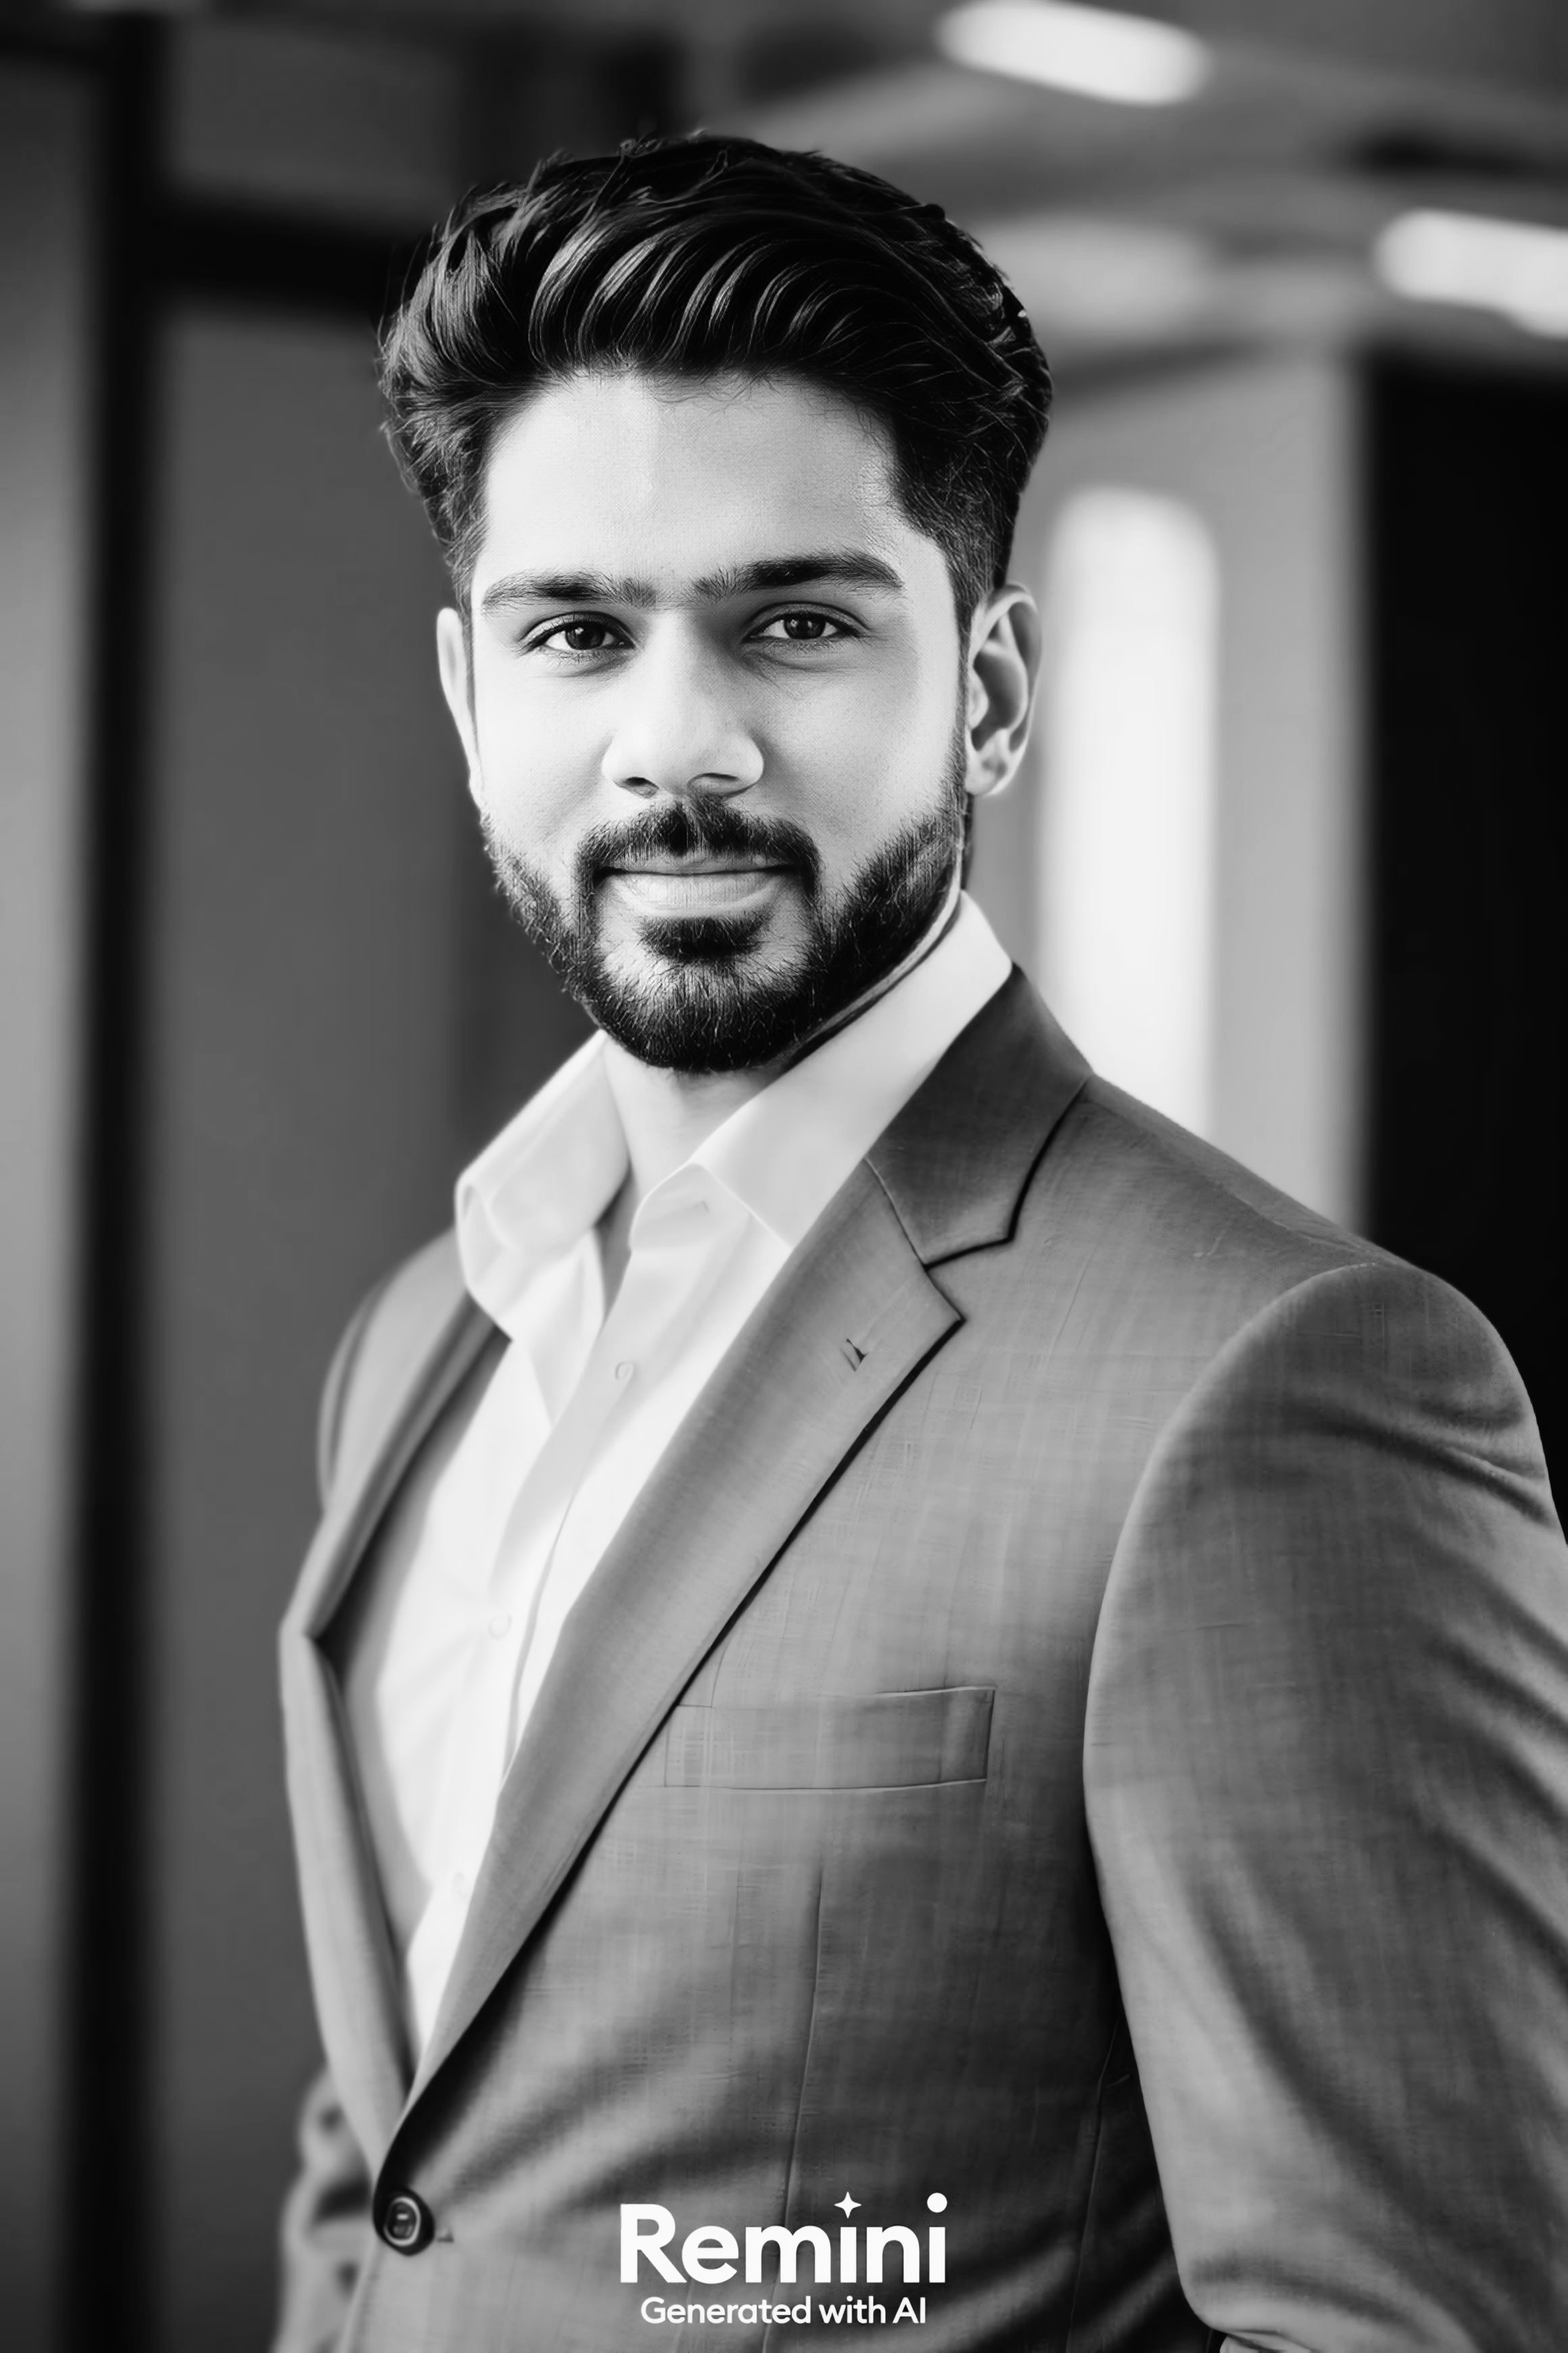
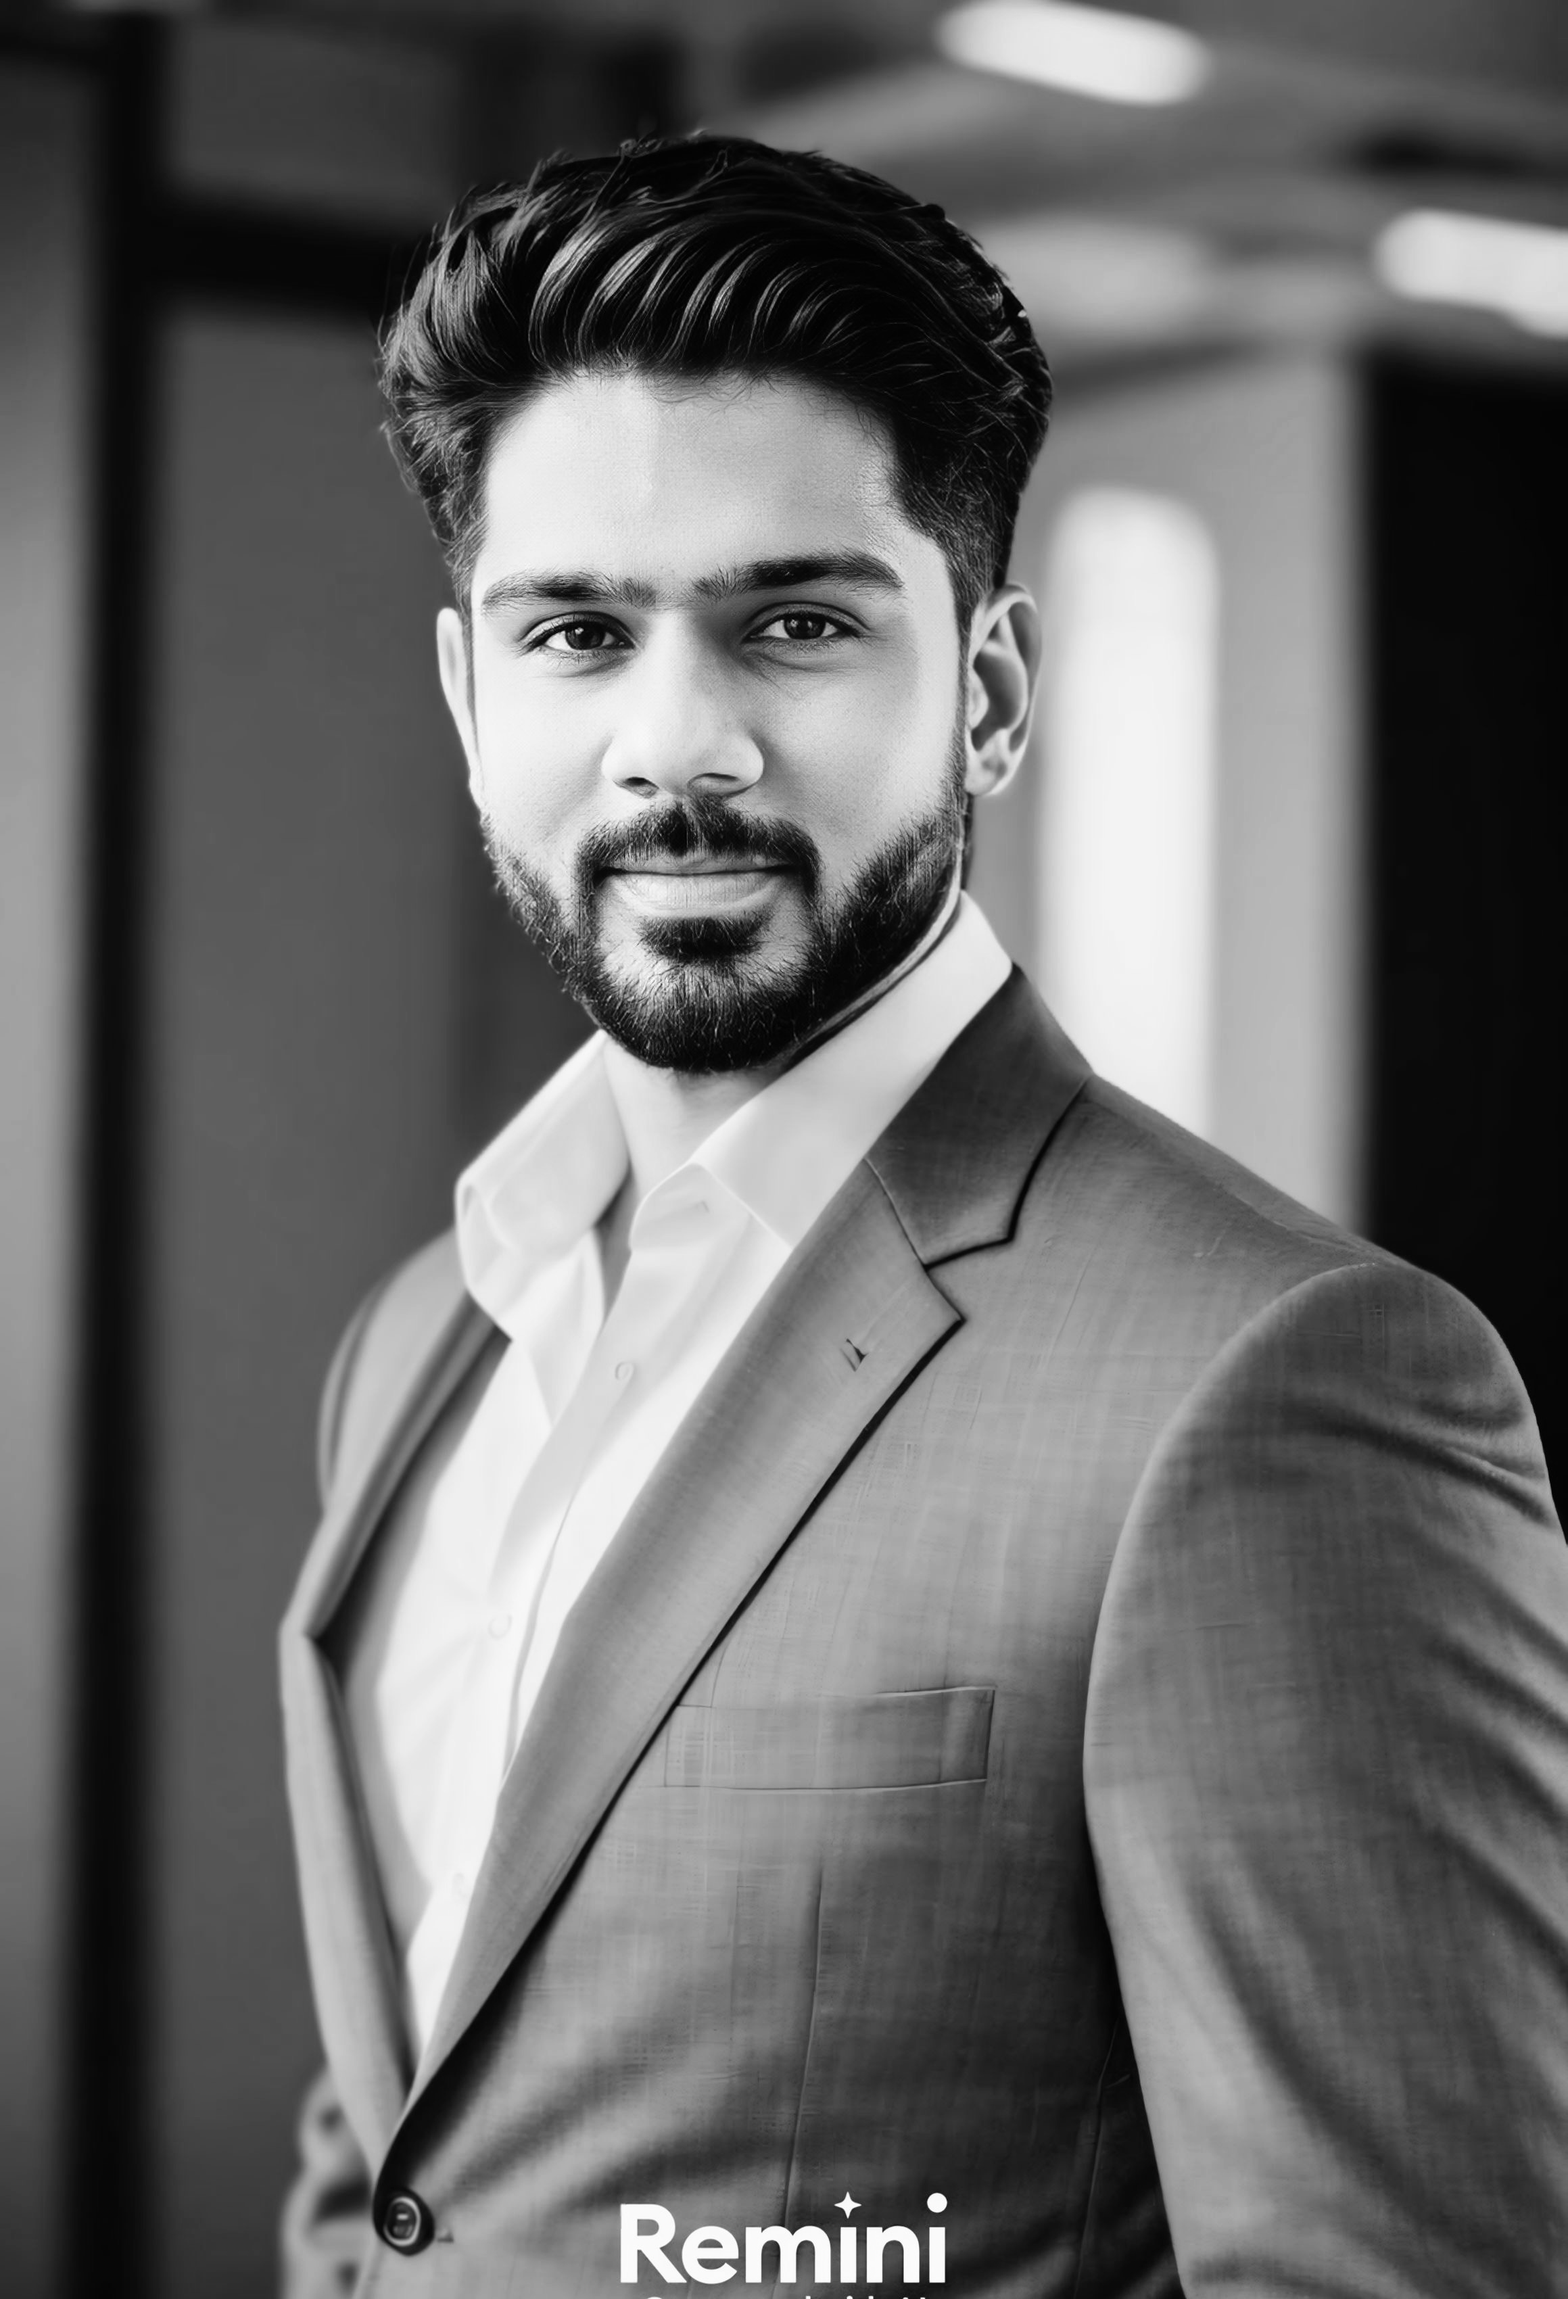
Update homepage layout and add community button
Restructure HomePage component to place founder image and community button on the right, adjusting image cropping and alignment.

Replit-Commit-Author: Agent
Replit-Commit-Session-Id: fb7e476f-cfdb-4e22-bd45-f687eb1b3fa3
Replit-Commit-Checkpoint-Type: full_checkpoint
Replit-Commit-Screenshot-Url: https://storage.googleapis.com/screenshot-production-us-central1/cb8d11f0-9b74-4f2b-8d52-0aeb05ff3cd0/fb7e476f-cfdb-4e22-bd45-f687eb1b3fa3/eeJ0L4k

diff --git a/client/src/pages/HomePage.tsx b/client/src/pages/HomePage.tsx
@@ -511,20 +511,8 @@ export default function HomePage() {
               </div>
 
               <div className="grid lg:grid-cols-2 gap-8 lg:gap-12 items-center">
-                {/* Founder Photo */}
-                <div className="order-2 lg:order-1 flex justify-center">
-                  <div className="relative">
-                    <div className="absolute inset-0 bg-gradient-to-r from-amber-400 to-orange-400 rounded-2xl blur-2xl opacity-20"></div>
-                    <img 
-                      src="/founder-photo.jpg" 
-                      alt="Aravindh Rajendran - Founder of DotSpark" 
-                      className="relative rounded-2xl shadow-2xl w-full max-w-sm object-cover"
-                    />
-                  </div>
-                </div>
-
-                {/* Message */}
-                <div className="order-1 lg:order-2 space-y-6">
+                {/* Message - Left Side */}
+                <div className="space-y-6">
                   <p className="text-lg text-gray-700 leading-relaxed">
                     Hey ThinQers,
                   </p>
@@ -559,6 +547,24 @@ export default function HomePage() {
                     <p className="text-xl font-bold text-gray-900">Aravindh Rajendran</p>
                     <p className="text-gray-600">Founder, DotSpark</p>
                   </div>
+                </div>
+
+                {/* Founder Photo - Right Side */}
+                <div className="flex flex-col items-center space-y-6">
+                  <div className="relative">
+                    <div className="absolute inset-0 bg-gradient-to-r from-amber-400 to-orange-400 rounded-2xl blur-2xl opacity-20"></div>
+                    <div className="relative rounded-2xl shadow-2xl overflow-hidden">
+                      <img 
+                        src="/founder-photo.jpg" 
+                        alt="Aravindh Rajendran - Founder of DotSpark" 
+                        className="w-full max-w-sm object-cover object-top h-96"
+                      />
+                    </div>
+                  </div>
+                  
+                  <button className="px-8 py-4 bg-gradient-to-r from-amber-500 to-orange-500 text-white font-bold text-lg rounded-full shadow-xl hover:shadow-2xl hover:scale-105 transition-all duration-300">
+                    Join ThinQers Community
+                  </button>
                 </div>
               </div>
             </div>
